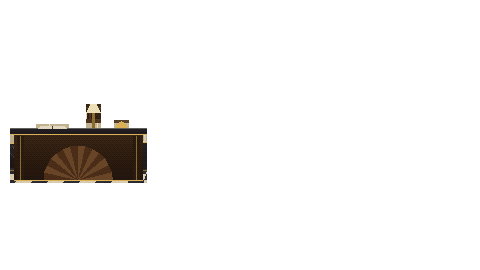
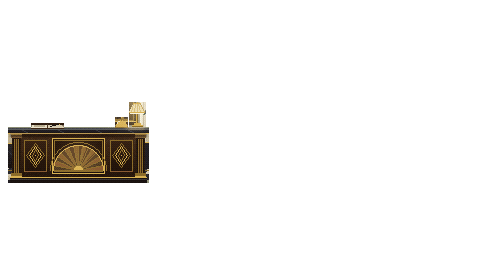
Aurelian lobby: redraw the key board, desk and lamp (#267)
Redraws the reception corner of the Aurelian lobby in
`tools/art/lobby.py` and regenerates `lobby.png` / `lobby_fg.png`.

- **Key board**: walnut pigeonhole rack with a stepped cornice, a gold
frame, recessed slots and brass number plates. The slots hold keys with
tags, folded messages, and the lady's glove from the `cubbies` look
text, in a fixed arrangement.
- **Lamp**: moved to the right end of the counter beside the bell, clear
of the concierge. It is now a deco lamp with a stepped base and a fluted
shade, casting a soft warm light.
- **Desk**: a black-marble top with a bevelled edge, walnut panels with
gold stringing, fluted corner posts, gold lozenges, an inlaid sunburst
panel, a plinth and a floor shadow. The ledger gets a pen.
- Foreground mask updated for the new props. No hotspot, actor or scene
positions changed.

Before / after (concierge composited, 4x nearest-neighbour). Checked in
game with a recorded frame of `--room=lobby`.

Local suites: `art` (`unittest discover -s tests\art`: 153 OK;
`test_character_art.py`: 43 OK), plus `dotnet build`.

![before](https://github.com/user-attachments/assets/0740de44-a9ed-4d74-9c86-7a3d066b1f2a)

![after](https://github.com/user-attachments/assets/7627127c-158b-4db4-9f80-7f7974eeb52b)

Changed region(s): [[0.0, 0.3556, 0.3125, 0.6815]]

diff --git a/tools/art/lobby.py b/tools/art/lobby.py
@@ -56,41 +56,192 @@ def floor(img):
     light(img, "ellipse", [300, FLOOR, 380, 180], hx("fff0c0"), 0.2, 10)
 
 
+WALNUT, WALNUT_D, WALNUT_L = hx("5a3820"), hx("2e1a0c"), hx("8a5a32")
+SLOT_IN = hx("140a04")
+LAMP_X = 137
+# what each pigeonhole holds, by (row, column): keys, messages, both, and the lady's glove from the look text
+CUBBY = {(0, 0): "key", (0, 1): "msg", (0, 3): "key", (0, 5): "keymsg", (0, 7): "key",
+         (1, 0): "msg", (1, 2): "key", (1, 4): "msg", (1, 6): "key", (1, 7): "msg",
+         (2, 1): "key", (2, 3): "keymsg", (2, 5): "key", (2, 6): "glove",
+         (3, 0): "key", (3, 2): "msg", (3, 4): "key", (3, 5): "msg", (3, 7): "key"}
+
+
 def plaque_and_cubbies(img):
     d = ImageDraw.Draw(img)
     d.rectangle([28, 20, 128, 36], fill=hx("1e1a14"))
     d.rectangle([30, 22, 126, 34], outline=GOLD)
     text(img, (78, 28), "THE AURELIAN", GOLD, size=8)
-    d.rectangle([22, 40, 134, 92], fill=hx("4a2e1a"))
+    key_board(img)
+
+
+def key_board(img):
+    """Walnut pigeonhole rack: stepped cornice, gold frame, recessed slots with brass number plates."""
+    d = ImageDraw.Draw(img)
+    shadow(img, "rect", [22, 40, 138, 96], 0.45, 3)
+    # stepped deco cornice
+    d.rectangle([18, 37, 138, 40], fill=WALNUT_D)
+    d.line([(18, 37), (138, 37)], fill=GOLD)
+    d.rectangle([20, 41, 136, 42], fill=WALNUT)
+    d.line([(20, 42), (136, 42)], fill=GOLD_D)
+    # carcass
+    vgrad(img, (21, 43, 135, 92), WALNUT, hx("402614"))
+    noise(img, (21, 43, 135, 92), 4, 31)
+    d.rectangle([21, 43, 135, 92], outline=WALNUT_D)
+    d.rectangle([23, 44, 133, 90], outline=GOLD_D)
+    d.line([(24, 45), (132, 45)], fill=WALNUT_L)
+    # plinth
+    d.rectangle([20, 91, 136, 94], fill=WALNUT_D)
+    d.line([(20, 91), (136, 91)], fill=GOLD)
     for r in range(4):
         for c in range(8):
-            x, y = 26 + c * 13, 43 + r * 12
-            d.rectangle([x, y, x + 10, y + 9], fill=hx("2a180c"))
-            if (r * 3 + c) % 4 == 1:
-                d.rectangle([x + 2, y + 4, x + 8, y + 9], fill=hx("e0d8c0"))
-            if (r + c) % 5 == 2:
-                d.line([(x + 5, y + 1), (x + 5, y + 6)], fill=GOLD)
-                d.point((x + 5, y + 7), fill=GOLD)
+            x, y = 26 + c * 13, 47 + r * 11
+            cubby(d, x, y, CUBBY.get((r, c)))
+
+
+def cubby(d, x, y, what):
+    # recess: dark top/left lip, warm lit sill
+    d.rectangle([x, y, x + 10, y + 8], fill=SLOT_IN)
+    d.line([(x + 1, y + 8), (x + 10, y + 8)], fill=hx("3a2212"))
+    d.line([(x + 10, y + 1), (x + 10, y + 7)], fill=hx("2a1608"))
+    d.line([(x - 1, y + 9), (x + 11, y + 9)], fill=WALNUT_L)
+    d.point((x + 5, y + 10), fill=GOLD)
+    d.point((x + 4, y + 10), fill=GOLD_D)
+    d.point((x + 6, y + 10), fill=GOLD_D)
+    if what in ("msg", "keymsg"):
+        mx = x + (1 if what == "keymsg" else 2)
+        d.rectangle([mx, y + 4, mx + 6, y + 7], fill=hx("e8e0c8"))
+        d.line([(mx, y + 4), (mx + 3, y + 6), (mx + 6, y + 4)], fill=hx("a89c84"))
+        d.line([(mx, y + 7), (mx + 6, y + 7)], fill=hx("c4b898"))
+    if what in ("key", "keymsg"):
+        kx = x + (8 if what == "keymsg" else 5)
+        d.point((kx, y + 1), fill=hx("b0a080"))
+        d.line([(kx, y + 2), (kx, y + 4)], fill=GOLD)
+        d.rectangle([kx - 1, y + 5, kx + 1, y + 6], outline=GOLD)
+        d.point((kx, y + 5), fill=hx("fff0b0"))
+        if what == "key":
+            d.rectangle([kx - 1, y + 7, kx + 1, y + 8], fill=hx("c8382c"))
+    if what == "glove":
+        # a lady's evening glove: cuff tucked in the slot, fingers draped over the sill
+        pale, crease = hx("e4d4e4"), hx("a490ac")
+        d.rectangle([x + 1, y + 4, x + 5, y + 8], fill=crease)
+        d.rectangle([x + 2, y + 5, x + 6, y + 8], fill=pale)
+        d.polygon([(x + 6, y + 6), (x + 9, y + 7), (x + 9, y + 9), (x + 6, y + 9)], fill=pale)
+        for fx, ln in ((x + 6, 2), (x + 7, 3), (x + 8, 3), (x + 9, 2)):
+            d.line([(fx, y + 10), (fx, y + 9 + ln)], fill=pale if fx != x + 7 else crease)
 
 
 def desk(img, d=None):
+    """Concierge desk: black-marble top, walnut front with fluted pilasters and an inlaid sunburst panel."""
     d = d or ImageDraw.Draw(img)
-    vgrad(img, (14, 104, 142, 150), hx("3a2414"), hx("1e120a"))
-    d.rectangle([10, 98, 146, 104], fill=hx("1e1a20"))
-    d.line([(10, 98), (146, 98)], fill=hx("6a6070"))
-    d.line([(10, 104), (146, 104)], fill=GOLD)
-    sunburst(d, 78, 150, 34, 14, hx("6a4424"), hx("4a2c16"))
-    for x in (20, 136):
-        d.rectangle([x - 3, 106, x + 3, 150], fill=hx("2a1a10"))
-        d.line([(x, 106), (x, 150)], fill=GOLD_D)
-    d.line([(14, 150), (142, 150)], fill=GOLD)
-    # bell, ledger, lamp
-    d.chord([116, 92, 126, 102], 180, 360, fill=GOLD)
-    d.point((121, 91), fill=GOLD)
-    d.polygon([(40, 96), (64, 96), (66, 98), (38, 98)], fill=hx("e0d8c0"))
-    d.line([(52, 96), (52, 98)], fill=hx("6a1a1a"))
-    d.rectangle([92, 82, 94, 97], fill=GOLD_D)
-    d.polygon([(86, 82), (100, 82), (96, 74), (90, 74)], fill=hx("f0e0b0"))
+    x0, x1 = 10, 146
+    shadow(img, "rect", [x0 - 2, 150, x1 + 4, 156], 0.55, 3)
+    # walnut front
+    vgrad(img, (x0 + 2, 104, x1 - 2, 147), hx("4a2c16"), hx("24140a"))
+    noise(img, (x0 + 2, 104, x1 - 2, 147), 4, 32)
+    for px0, px1 in ((24, 46), (110, 132)):
+        side_panel(img, d, px0, px1)
+    centre_panel(img, d, 52, 104)
+    for x in (16, 140):
+        fluted_post(d, x)
+    # plinth
+    d.rectangle([x0, 147, x1, 152], fill=hx("161216"))
+    d.line([(x0, 147), (x1, 147)], fill=GOLD)
+    d.line([(x0, 149), (x1, 149)], fill=hx("3a3238"))
+    # marble top: lit surface, bevelled front edge, gold under-strip
+    d.rectangle([x0 - 2, 97, x1 + 2, 98], fill=hx("4a4250"))
+    d.line([(x0 - 2, 97), (x1 + 2, 97)], fill=hx("8a8094"))
+    d.rectangle([x0 - 2, 99, x1 + 2, 102], fill=hx("1e1a20"))
+    d.line([(x0 - 2, 99), (x1 + 2, 99)], fill=hx("5a5262"))
+    for vx in (22, 58, 96, 128):
+        d.line([(vx, 100), (vx + 5, 102)], fill=hx("3a3440"))
+    d.line([(x0 - 2, 103), (x1 + 2, 103)], fill=GOLD)
+    shadow(img, "rect", [x0, 104, x1, 106], 0.5, 1)
+    ledger(d)
+    bell(d)
+    lamp(img, d)
+
+
+def fluted_post(d, x):
+    d.rectangle([x - 4, 104, x + 4, 147], fill=hx("2a1a10"))
+    for k, col in zip(range(-3, 4), (hx("1a0e06"), GOLD_D, hx("3a2414"), GOLD_D, hx("3a2414"), GOLD_D, hx("1a0e06"))):
+        d.line([(x + k, 109), (x + k, 142)], fill=col)
+    d.rectangle([x - 5, 104, x + 5, 107], fill=GOLD_D)
+    d.line([(x - 5, 104), (x + 5, 104)], fill=GOLD)
+    d.rectangle([x - 5, 143, x + 5, 146], fill=GOLD_D)
+    d.line([(x - 5, 146), (x + 5, 146)], fill=GOLD)
+
+
+def side_panel(img, d, x0, x1):
+    y0, y1 = 110, 141
+    vgrad(img, (x0, y0, x1, y1), hx("3a2210"), hx("1e1008"))
+    d.rectangle([x0, y0, x1, y1], outline=GOLD_D)
+    d.line([(x0 + 1, y1), (x1, y1)], fill=WALNUT_L)
+    cx, cy = (x0 + x1) // 2, (y0 + y1) // 2
+    # stepped gold lozenge
+    for k, col in ((9, GOLD_D), (6, GOLD), (3, GOLD_D)):
+        d.polygon([(cx, cy - k - 3), (cx + k, cy), (cx, cy + k + 3), (cx - k, cy)], outline=col)
+    d.point((cx, cy), fill=GOLD)
+
+
+def centre_panel(img, d, x0, x1):
+    y0, y1 = 108, 143
+    cx = (x0 + x1) // 2
+    vgrad(img, (x0, y0, x1, y1), hx("2a180c"), hx("1a0e06"))
+    d.rectangle([x0, y0, x1, y1], outline=GOLD)
+    d.rectangle([x0 + 2, y0 + 2, x1 - 2, y1 - 2], outline=GOLD_D)
+    # fine inlaid fan of alternating veneers, rays in gold
+    r = 25
+    sunburst(d, cx, y1 - 3, r, 16, hx("8a5a30"), hx("5a3618"))
+    for i in range(17):
+        a = math.pi + math.pi * i / 16
+        d.line([(cx, y1 - 3), (round(cx + r * math.cos(a)), round(y1 - 3 + r * math.sin(a)))], fill=GOLD_D)
+    d.arc([cx - r, y1 - 3 - r, cx + r, y1 - 3 + r], 180, 360, fill=GOLD)
+    d.arc([cx - r - 3, y1 - 6 - r, cx + r + 3, y1 + r], 180, 360, fill=GOLD_D)
+    d.pieslice([cx - 5, y1 - 8, cx + 5, y1 + 2], 180, 360, fill=GOLD, outline=GOLD_D)
+    d.line([(x0 + 3, y1 - 3), (x1 - 3, y1 - 3)], fill=GOLD_D)
+    light(img, "ellipse", [cx - 20, y0 + 4, cx + 20, y1 - 6], hx("ffe0a0"), 0.12, 6)
+
+
+def ledger(d):
+    # open guest book with a pen across it
+    d.polygon([(32, 95), (46, 95), (47, 97), (31, 97)], fill=hx("e8e0c8"))
+    d.polygon([(47, 95), (61, 95), (63, 97), (47, 97)], fill=hx("d8cfb4"))
+    d.line([(47, 94), (47, 97)], fill=hx("6a1a1a"))
+    d.line([(31, 98), (63, 98)], fill=hx("5a1414"))
+    for y in (95, 96):
+        d.line([(34, y), (44, y)], fill=hx("b8ae96"))
+    d.line([(50, 96), (58, 94)], fill=hx("1a1418"))
+    d.point((59, 94), fill=GOLD)
+
+
+def bell(d):
+    d.rectangle([115, 96, 127, 97], fill=GOLD_D)
+    d.chord([116, 90, 126, 102], 180, 360, fill=GOLD)
+    d.arc([116, 90, 126, 102], 200, 250, fill=hx("fff0b0"))
+    d.line([(121, 88), (121, 90)], fill=GOLD_D)
+    d.point((121, 87), fill=GOLD)
+
+
+def lamp(img, d):
+    """Deco desk lamp at the end of the counter: stepped brass base, slim stem, fluted silk shade."""
+    x = LAMP_X
+    light(img, "ellipse", [x - 24, 62, x + 20, 96], hx("ffe8b0"), 0.2, 8)
+    light(img, "ellipse", [x - 12, 96, x + 9, 99], hx("fff0c0"), 0.25, 1)
+    d.rectangle([x - 5, 95, x + 5, 96], fill=GOLD_D)
+    d.line([(x - 5, 95), (x + 5, 95)], fill=GOLD)
+    d.rectangle([x - 3, 93, x + 3, 94], fill=GOLD)
+    d.rectangle([x - 1, 82, x, 92], fill=GOLD_D)
+    d.line([(x - 1, 82), (x - 1, 92)], fill=GOLD)
+    top, bot = 73, 82
+    shade = [(x - 4, top), (x + 3, top), (x + 7, bot), (x - 8, bot)]
+    d.polygon(shade, fill=hx("f0e0b0"))
+    for k in range(-6, 6, 3):
+        d.line([(x + k * 4 // 7, top + 1), (x + k, bot - 1)], fill=hx("d8c088"))
+    d.line([(x + 3, top), (x + 7, bot)], fill=hx("c8a868"))
+    d.line([(x - 4, top), (x + 3, top)], fill=GOLD)
+    d.line([(x - 8, bot), (x + 7, bot)], fill=GOLD)
+    d.line([(x - 7, bot + 1), (x + 6, bot + 1)], fill=hx("fff8d8"))
+    d.point((x, top - 1), fill=GOLD)
 
 
 def elevator(img):
@@ -446,9 +597,9 @@ def build():
     save(px, "rooms", "lobby.png")
     mask = Image.new("L", (W, H + TOP), 0)
     md = ImageDraw.Draw(mask)
-    md.rectangle([10, 98 + TOP, 146, 152 + TOP], fill=255)
-    md.rectangle([86, 74 + TOP, 100, 98 + TOP], fill=255)
-    md.rectangle([114, 90 + TOP, 128, 98 + TOP], fill=255)
-    md.rectangle([36, 94 + TOP, 68, 98 + TOP], fill=255)
+    md.rectangle([8, 97 + TOP, 148, 152 + TOP], fill=255)
+    md.rectangle([LAMP_X - 8, 72 + TOP, LAMP_X + 8, 97 + TOP], fill=255)
+    md.rectangle([115, 87 + TOP, 127, 97 + TOP], fill=255)
+    md.rectangle([31, 93 + TOP, 63, 97 + TOP], fill=255)
     save(cut(px, mask), "rooms", "lobby_fg.png")
     return px
